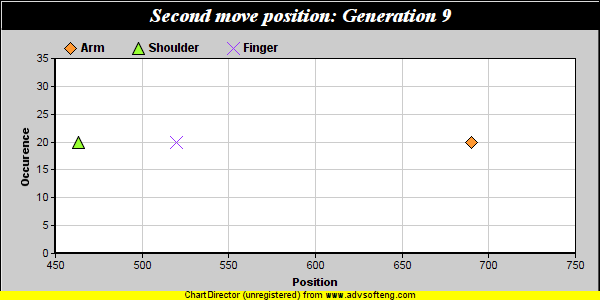
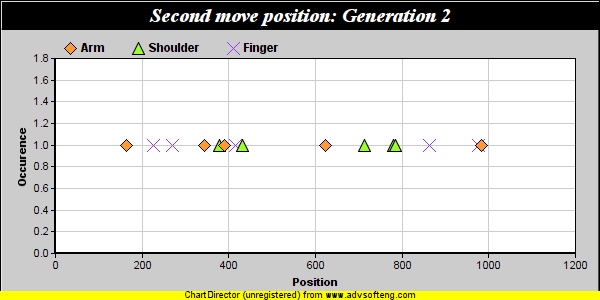
scaling

diff --git a/2Wheels1arm_API_sample_application/2Wheels1arm_API_sample_application/MovementGeneticAlgorithm.cpp b/2Wheels1arm_API_sample_application/2Wheels1arm_API_sample_application/MovementGeneticAlgorithm.cpp
@@ -54,19 +54,21 @@ namespace
 	static unsigned int ANGULAR_SPEED_MAX = 64;
 	static unsigned int PHASE_DURATION_MAX = 500;
 	static double MUTATION_PROBABILTY = 0.01;
+	static unsigned int MAX_GENERATION = 50;
 }
 
 // --------------------------------------------------------------
 // MovementGeneticAlgorithm
 // --------------------------------------------------------------
 MovementGeneticAlgorithm::MovementGeneticAlgorithm(void)
-	: AGeneticAlgorithm<MovementChromosome>(20, 10)
+	: AGeneticAlgorithm<MovementChromosome>(20, 3)
 	, _randomAngularSpeed(0, ANGULAR_SPEED_MAX)
 	, _randomPosition(0, POSITION_MAX)
 	, _randomBool(0, 1)
 	, _randomDuration(0, PHASE_DURATION_MAX)
 	, _randomProbabilistic(0.0f, 1.0f)
 	, _randomEngine(time(NULL))
+	, _scaling(0.0f)
 {
 
 }
@@ -228,6 +230,11 @@ void MovementGeneticAlgorithm::Mutate(PopulationType & population)
 
 void MovementGeneticAlgorithm::PrepareSelection()
 {
+	// Calcul du scaling
+	if (this->_generationNumber < MAX_GENERATION)
+		this->_scaling = std::powf(std::tanf(((this->_generationNumber+1.f) * 3.14f) / (2.f * (MAX_GENERATION + 1.f))), .1f);
+	else this->_scaling = 2.0f;
+	std::cout << "Scaling : " << this->_scaling << std::endl;
 	// preparation de la roulette
 	this->_wheel.clear();
 
@@ -235,14 +242,14 @@ void MovementGeneticAlgorithm::PrepareSelection()
 	double fitnessTotal = 0;
 	for (MovementChromosome const & chromosome : this->_chromosomePopulation)
 	{
-		fitnessTotal += chromosome.Fitness();
+		fitnessTotal += chromosome.Fitness() * this->_scaling;
 	}
 
 	// step 2 : creation de la roulette
 
 	for (MovementChromosome & chromosome : this->_chromosomePopulation)
 	{
-		this->_wheel.push_back(std::make_pair(&chromosome, chromosome.Fitness() / fitnessTotal));
+		this->_wheel.push_back(std::make_pair(&chromosome, (chromosome.Fitness() * this->_scaling) / fitnessTotal));
 	}
 }
 

diff --git a/2Wheels1arm_API_sample_application/2Wheels1arm_API_sample_application/MovementGeneticAlgorithm.h b/2Wheels1arm_API_sample_application/2Wheels1arm_API_sample_application/MovementGeneticAlgorithm.h
@@ -68,6 +68,7 @@ private:
 	std::mt19937								_randomEngine;
 
 	WheelType _wheel;
+	float _scaling;
 
 };
 
